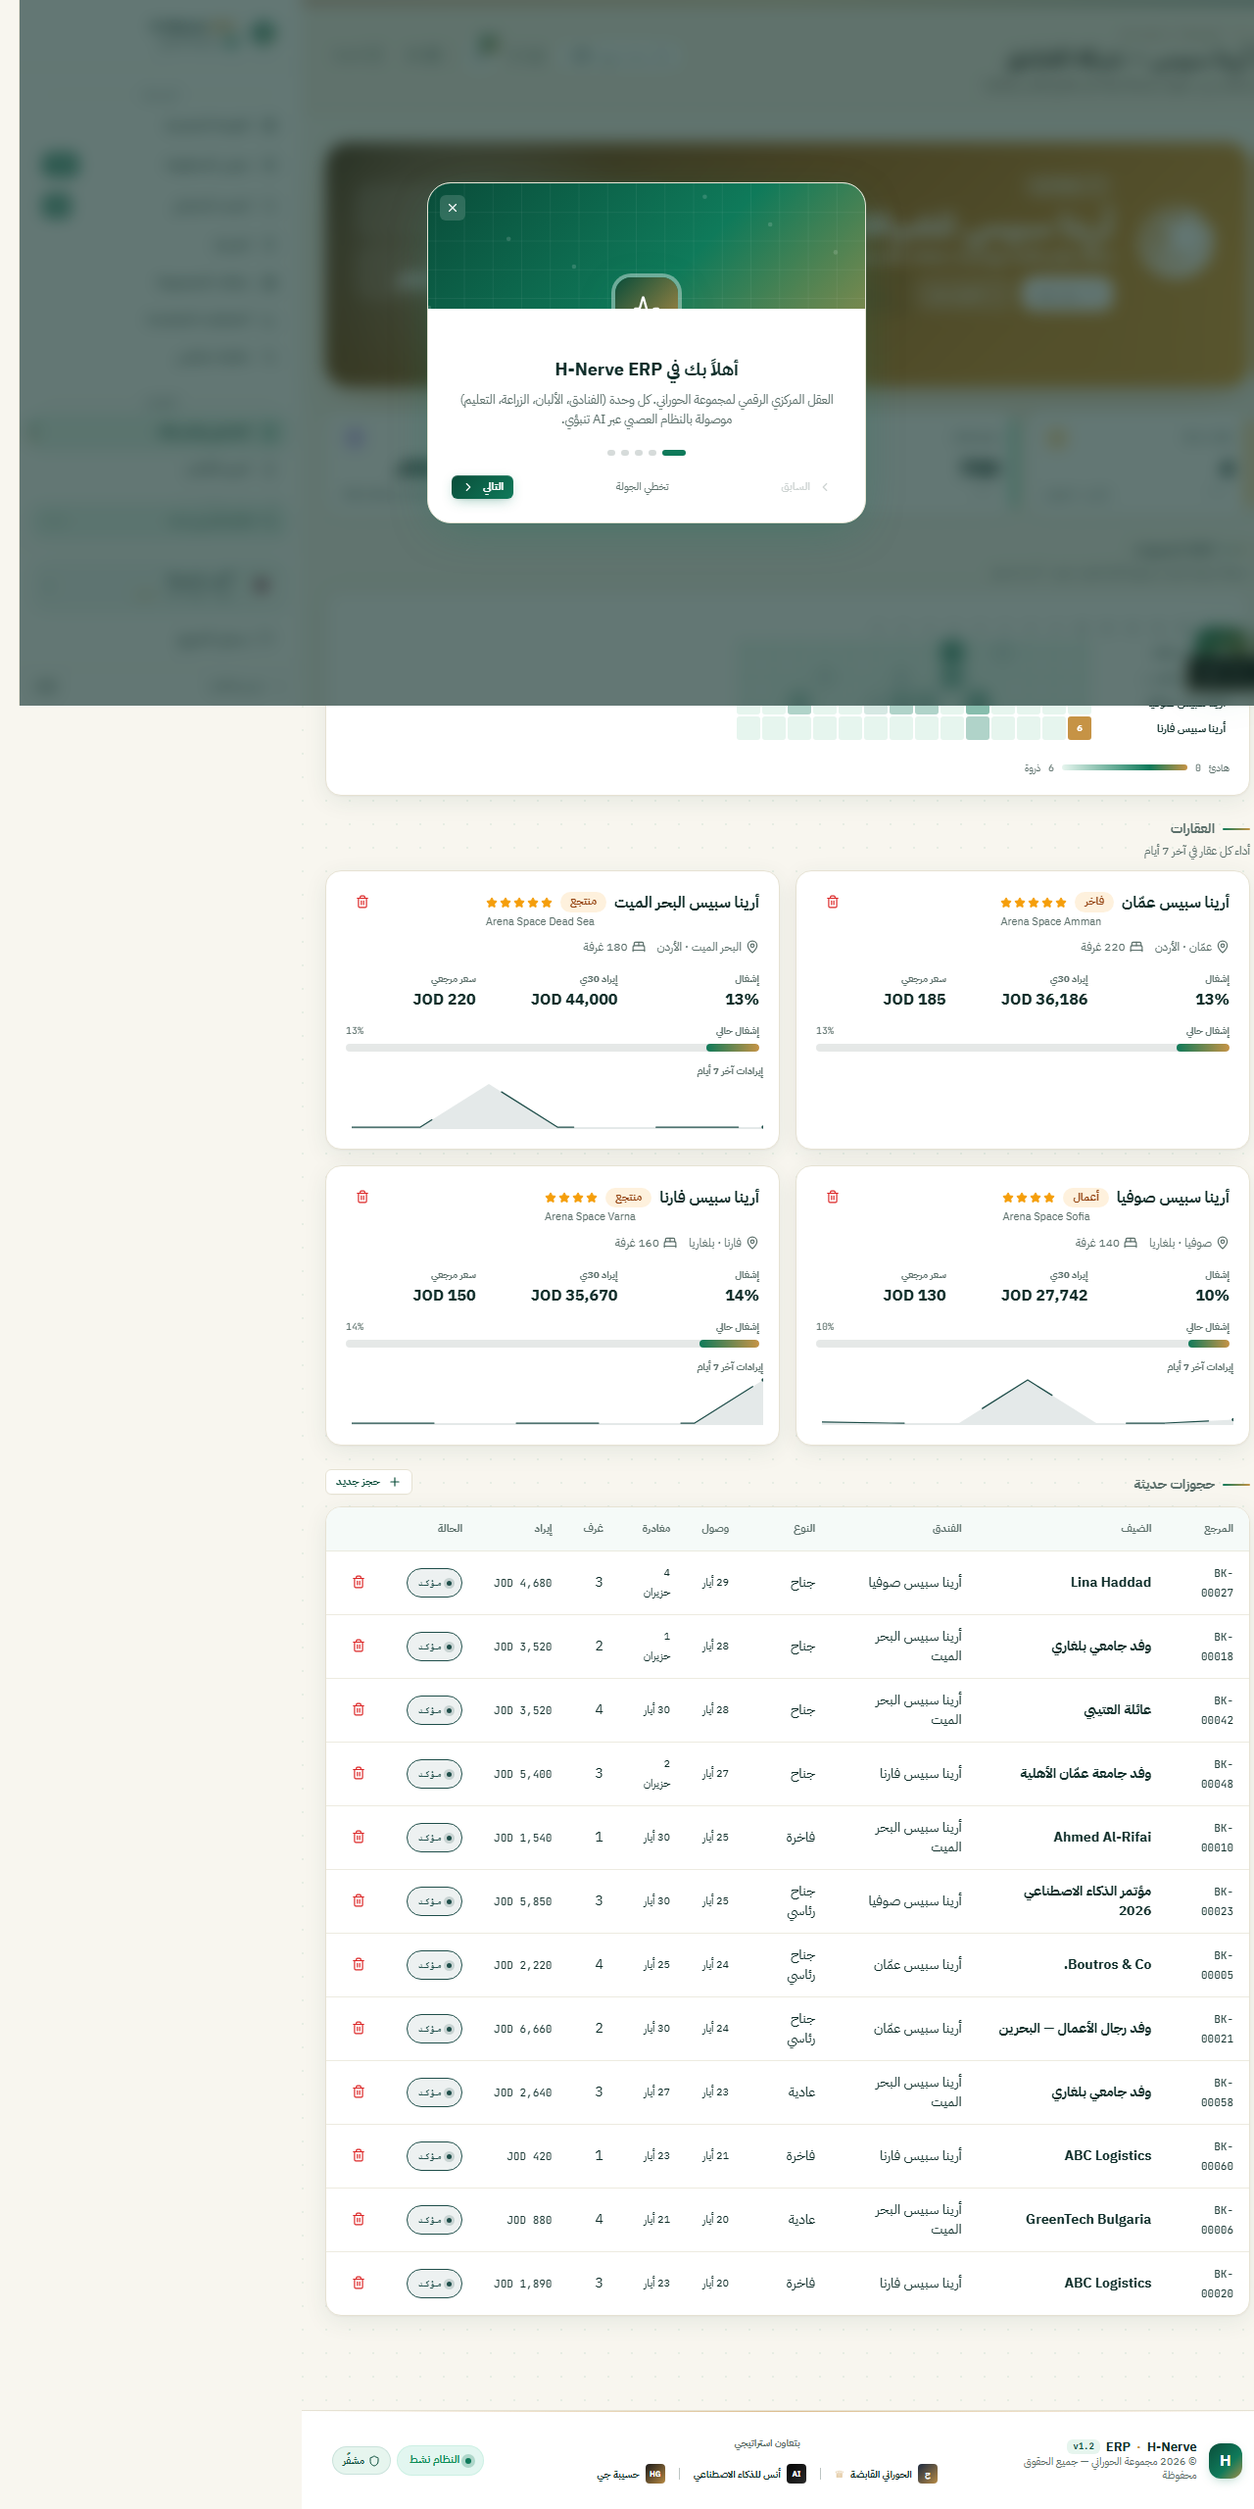
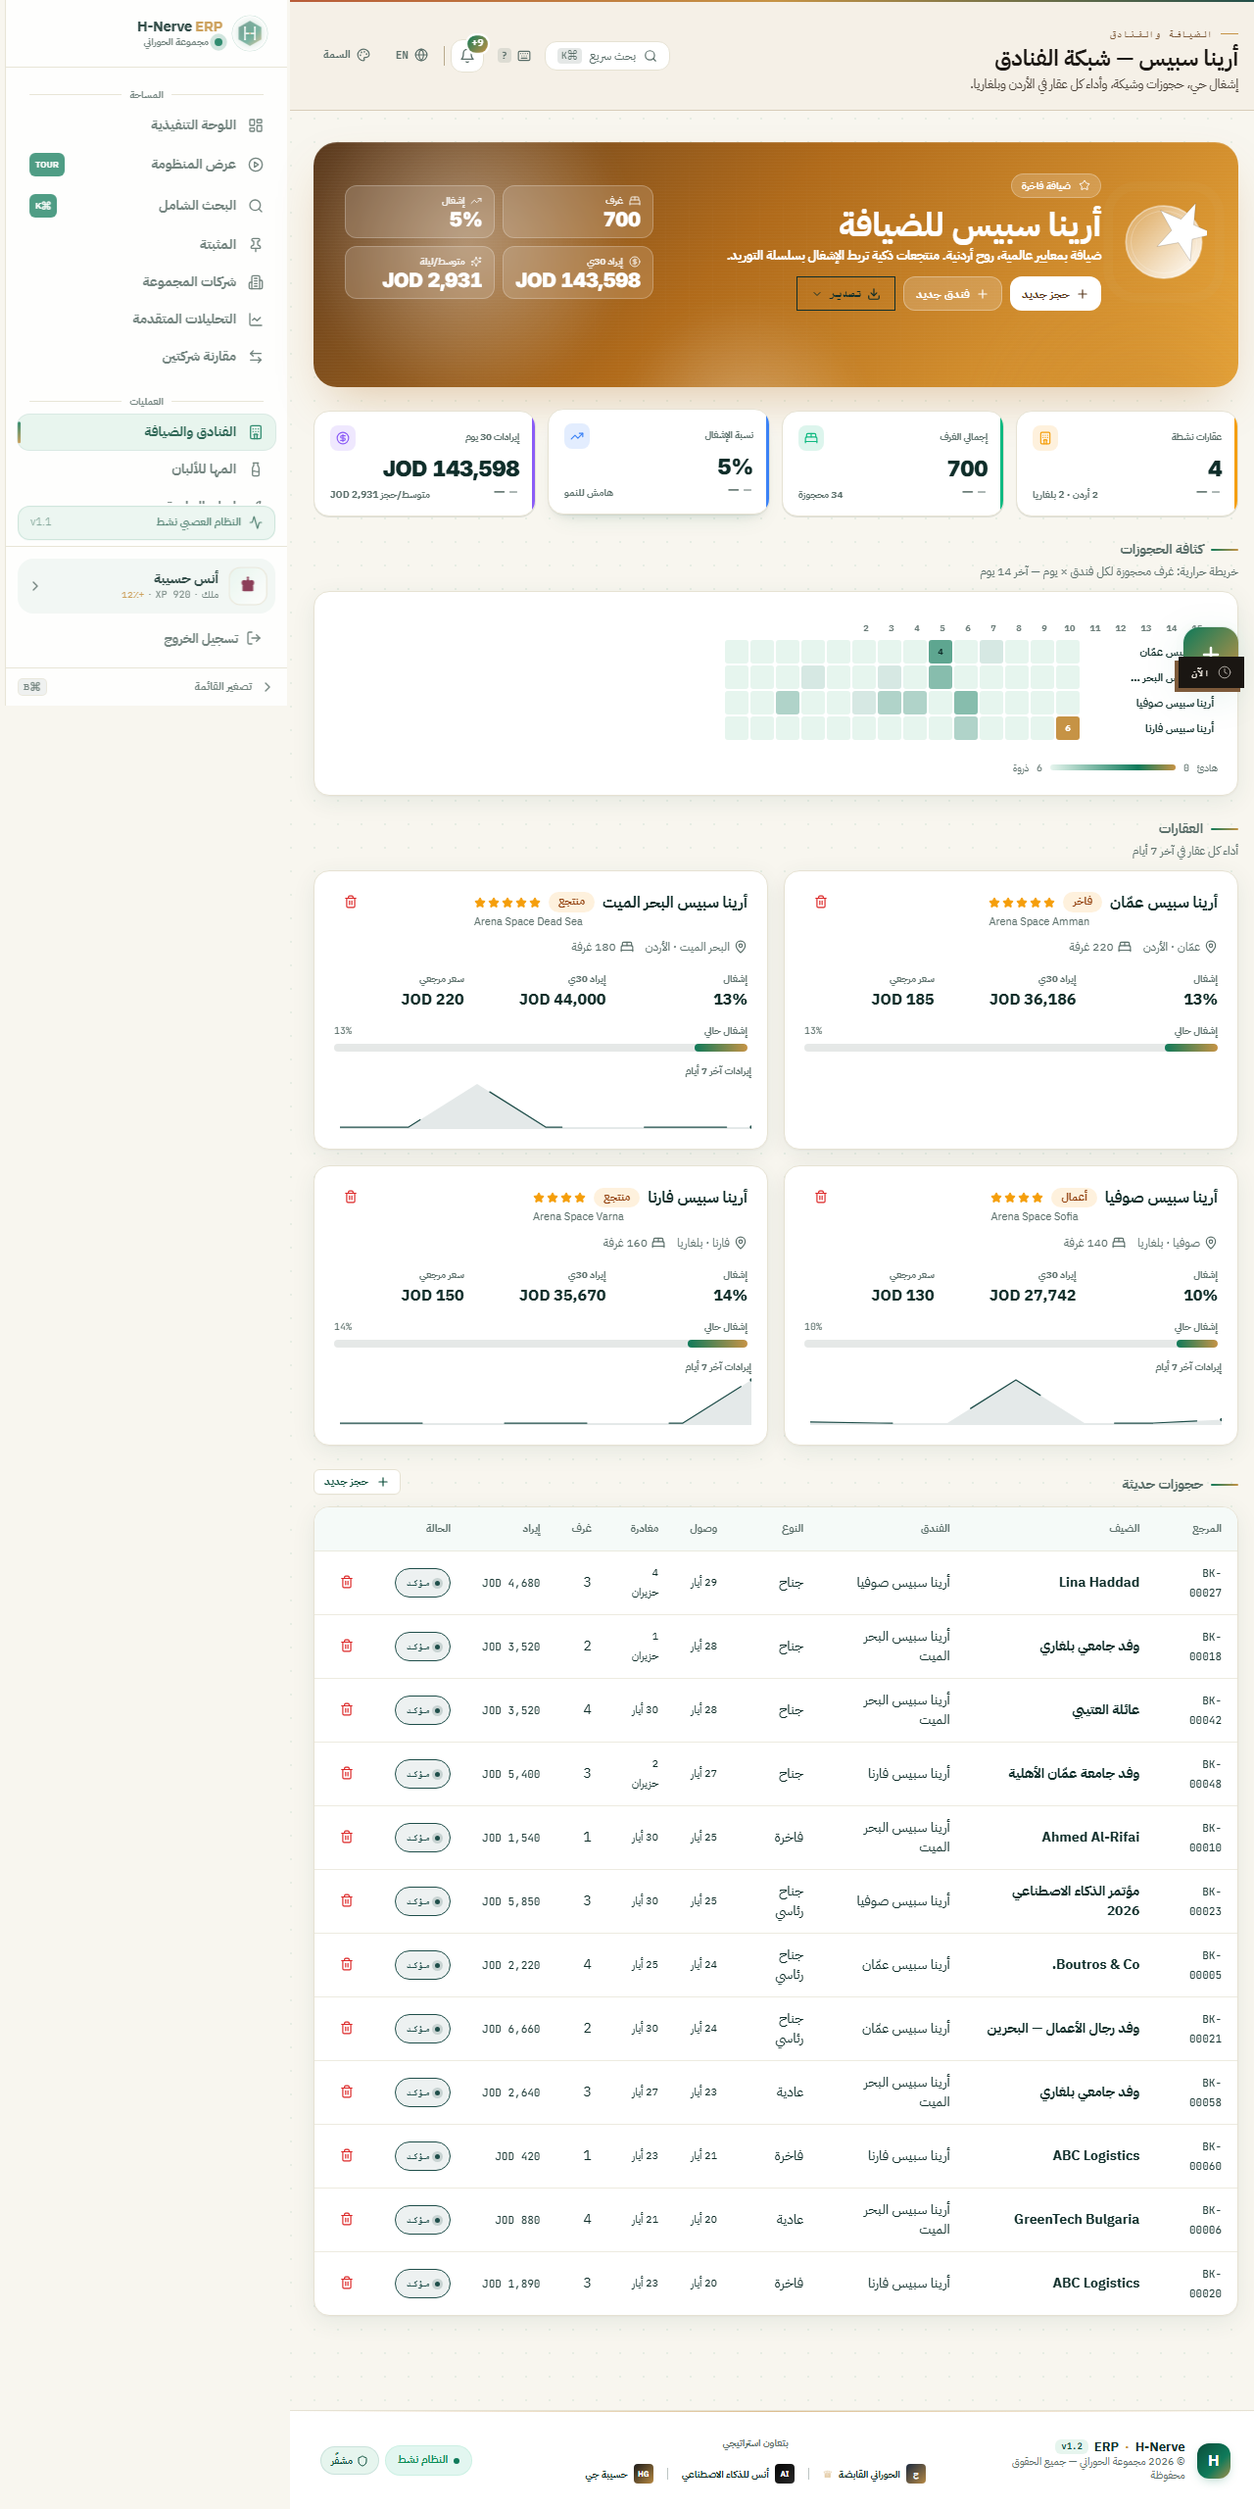
Add pitch-walkthrough report + screenshots (Terminal 2 deliverable)
docs/PITCH-WALKTHROUGH.md + 22 screenshots. Approved modal-free set.

diff --git a/docs/PITCH-WALKTHROUGH.md b/docs/PITCH-WALKTHROUGH.md
@@ -1,0 +1,145 @@
+# H-Nerve ERP — Pitch Rehearsal Walkthrough
+
+> Full-app dry run as an investor/leadership demo would see it.
+> **Run date:** 2026-05-15 · **Build:** Next.js 14.2.18, branch `main`, commit `f229049`
+> **Method:** gstack headless Chromium, logged in as `admin@hourani.jo`, every major screen visited at 1280px (mobile `/m` captured at 390×844 phone viewport).
+> **Screenshots:** [`./pitch-screenshots/`](./pitch-screenshots/) (one PNG per screen, numbered to match the table).
+
+This file is **read-only evidence**. It changes no app code. It is the only file added by this pass besides the screenshot PNGs.
+
+---
+
+## How to read this
+
+Each finding is tagged:
+
+- 🔴 **BLOCKER** — an investor will see this and it undercuts the pitch. Fix before demoing.
+- 🟡 **COSMETIC** — looks slightly unfinished; fix if time allows, won't sink the room.
+- ⚪ **EMPTY BY DESIGN** — correct behaviour, but seed data leaves it bare; pre-load or demo it live.
+- ✅ **CLEARED** — looked suspicious, verified fine.
+
+Every screen returned **HTTP 200** with a real Arabic `<h1>` and **no per-page console errors** (one transient dev-only RSC prefetch warning for `/showcase`, harmless). Nothing is *broken* in the crash sense. The issues below are about polish and pitch-credibility.
+
+---
+
+## TL;DR — the five things to fix before you pitch
+
+| # | Severity | Finding | Where it shows |
+|---|----------|---------|----------------|
+| 1 | 🔴 | **Two stacked welcome modals dim every screen on a fresh machine.** Tour (5 steps) → Welcome splash (4 slides) = 9 click-throughs, gated on `localStorage` only (per-device, not per-account). On the pitch laptop they *will* fire. | Every authenticated page |
+| 2 | 🔴 | **Seed data shows Arena Space Hospitality at "−100% revenue / JOD 0".** This zero propagates to the dashboard KPI, finance, insights, mobile, and Brain-IQ "Speed 0/100". Reads as a business in freefall. | Dashboard, Finance, Insights, `/m`, Brain IQ |
+| 3 | 🔴 | **Council says "مُفعّل بـ CLAUDE" but `ANTHROPIC_API_KEY` is unset → it runs deterministic stub templates.** The headline AI feature claims live Claude while it is templated. | `/brain/council`, all narrated brain output |
+| 4 | 🟡 | **Developer-personal branding in product chrome:** "أنس للذكاء الاصطناعي / Anas AI" + "حسيبة جي / Hasiba G" in the global footer and welcome splash slide 2. Reads as personal, not a Hourani product. | Global footer, Welcome splash |
+| 5 | 🟡 | **AI/seeded content is English in an Arabic-first UI.** Insight titles, council session names ("Revenue drop at…", "Should we ramp Maha cheese…"). | Insights, `/m`, `/brain/council` |
+
+---
+
+## Screen-by-screen checklist
+
+| # | Screen | Path | Screenshot | Verdict |
+|---|--------|------|-----------|---------|
+| 01 | Login | `/login` | [01-login.png](./pitch-screenshots/01-login.png) | ✅ Clean, professional |
+| 02 | Executive Dashboard | `/dashboard` | [02-dashboard.png](./pitch-screenshots/02-dashboard.png) | 🟡 Dense but good; one `JOD 0` KPI |
+| 03 | Companies | `/companies` | [03-companies.png](./pitch-screenshots/03-companies.png) | ✅ Strong, populated |
+| 04 | Hotels (vertical) | `/hotels` | [04-hotels.png](./pitch-screenshots/04-hotels.png) | ✅ Rich; gold hero, ratings, bookings table |
+| 05 | Dairy (vertical) | `/dairy` | [05-dairy.png](./pitch-screenshots/05-dairy.png) | ✅ Rich; blue hero, gauge, batch table |
+| 06 | Farms (vertical) | `/farms` | [06-farms.png](./pitch-screenshots/06-farms.png) | ✅ Rich; emerald hero, crop cards, weather |
+| 07 | Education (vertical) | `/education` | [07-education.png](./pitch-screenshots/07-education.png) | ✅ Good; purple hero, program cards |
+| 08 | Finance | `/finance` | [08-finance.png](./pitch-screenshots/08-finance.png) | 🟡 Long real ledger; recurring `JOD 0` KPI |
+| 09 | The Council | `/brain/council` | [09-brain-council.png](./pitch-screenshots/09-brain-council.png) | 🔴 "powered by CLAUDE" label vs stub mode |
+| 10 | Causal Graph | `/brain/graph` | [10-brain-graph.png](./pitch-screenshots/10-brain-graph.png) | 🟡 Renders, but visually dense/unlabelled |
+| 11 | Brain IQ | `/brain/iq` | [11-brain-iq.png](./pitch-screenshots/11-brain-iq.png) | 🟡 Polished; **Speed = 0/100** sub-score |
+| 12 | Memory Lake | `/brain/memory` | [12-brain-memory.png](./pitch-screenshots/12-brain-memory.png) | ✅ Full, editorial, looks intentional |
+| 13 | What-if Simulator | `/brain/scenarios` | [13-brain-scenarios.png](./pitch-screenshots/13-brain-scenarios.png) | ✅ Works; real propagation. Toast overlaps |
+| 14 | Supply Chain | `/supply-chain` | [14-supply-chain.png](./pitch-screenshots/14-supply-chain.png) | ✅ Strong; booking→production bridge |
+| 15 | Insights | `/insights` | [15-insights.png](./pitch-screenshots/15-insights.png) | 🟡 Very full; English content in AR UI |
+| 16 | Admin · Tenants | `/admin/tenants` | [16-admin-tenants.png](./pitch-screenshots/16-admin-tenants.png) | 🟡 Polished; 6/7 tenants show `PACKS 0` |
+| 17 | Admin · Empire | `/admin/empire` | [17-admin-empire.png](./pitch-screenshots/17-admin-empire.png) | 🟡 Strong; one empty grid cell (layout) |
+| 18 | Admin · System | `/admin/system` | [18-admin-system.png](./pitch-screenshots/18-admin-system.png) | 🟡 Thin — 4 stat cards on empty canvas |
+| 19 | Showcase / Tour | `/showcase` | [19-showcase.png](./pitch-screenshots/19-showcase.png) | ✅ Editorial 20-phase index; "تجريبي" benign |
+| 20 | Mobile "Today" | `/m` | [20-mobile.png](./pitch-screenshots/20-mobile.png) | 🟡 Clean at phone size; English insight text in AR UI |
+| 21 | Documents | `/documents` | [21-documents.png](./pitch-screenshots/21-documents.png) | ⚪ Empty by design; parser is a known stub |
+| 22 | Decision Theater (Phase 9) | `/theater/council/[id]` | [22-theater-council.png](./pitch-screenshots/22-theater-council.png) | ✅ Cinematic; works. English topic title |
+
+---
+
+## Detailed findings
+
+### 🔴 BLOCKER 1 — The double welcome-modal wall
+
+There are **two independent full-screen blocking overlays**, and the pitch laptop will hit both unless its browser `localStorage` already has the flags:
+
+1. `components/OnboardingTour.tsx` — 5-step tour, gated on `localStorage["h_nerve_onboarded_v1"]`.
+2. `components/WelcomeSplash.tsx` — 4-slide "Welcome to the upgraded H-Nerve", gated on `localStorage["h_nerve_welcome_v1.4_seen"]`. It only shows *after* the tour flag is set — so **dismissing the tour immediately triggers the splash**. Net: 9 dismissals.
+
+Why this is a real pitch risk, not a tester artifact:
+- Persistence is **`localStorage` only — per-device, per-browser, not tied to the user account.** A fresh laptop, a cleared cache, incognito, or a different machine = both modals fire again.
+- `OnboardingTour.close()` swallows storage failures with a silent `catch {}` (line 87-89). If storage is partitioned/blocked, it re-shows on *every* navigation forever. During this walkthrough it did exactly that — re-appeared on every page until both `localStorage` keys were set manually.
+- Every screenshot in the first three passes was dimmed by these modals. They sit at `z-[115]` / `z-[100]` with an 8px backdrop blur over the whole app.
+
+**Pre-pitch fix options (no code change needed for the demo itself):** on the actual pitch machine, before the demo, load the app once and click through both, OR run in the JS console: `localStorage.setItem('h_nerve_onboarded_v1','1'); localStorage.setItem('h_nerve_welcome_v1.4_seen','1')`. **Durable fix (post-pitch):** persist "seen" server-side on the user record instead of `localStorage`.
+
+### 🔴 BLOCKER 2 — Arena Space Hospitality reads as "−100% revenue / JOD 0"
+
+The seed data gives Arena Space Hospitality **zero revenue in the recent 14-day window** (`JOD 0` vs `JOD 127,335` prior). Consequences visible to an investor:
+- Dashboard: a KPI card literally shows **`JOD 0`** (02-dashboard).
+- Finance: same `JOD 0` in the unified-ledger hero (08-finance).
+- Insights & Mobile: a red alert **"Revenue drop at Arena Space Hospitality by 100%"** (15-insights, 20-mobile).
+- Brain IQ: **"Speed 0/100"** sub-score (11-brain-iq) — a zero on the flagship intelligence screen.
+
+Individually each is "just seed data," but together they paint the flagship hospitality unit as collapsed. **Fix:** reseed Arena Space with non-zero recent revenue so the demo narrative is "healthy group, AI catching subtle signals" rather than "everything is down 100%." (Seeding is owned by another terminal — flagging, not touching.)
+
+### 🔴 BLOCKER 3 — "Powered by CLAUDE" while running stub templates
+
+- `/brain/council` shows **"حالة المعركة: مُفعّل بـ CLAUDE"** ("powered by CLAUDE").
+- `ANTHROPIC_API_KEY` is **declared in `.env` but empty** — verified unset in the running dev server (`set: false, len: 0`).
+- `lib/brain/narrator.claude.ts:6`: *"Stub mode (no ANTHROPIC_API_KEY) returns a topic-aware editorial template."* `lib/brain/llm.ts:35` reads the key and falls back to templates when absent.
+- `lib/brain/Brain.ts` itself: `makeBrain()` returns all-stub proxies and `Brain.ask()` throws `"not yet wired"`. The brain *pages* work because they call the `*.live.ts` subsystems directly (council.live, simulator.bfs, memory.live) — those produce **real deterministic output**, not LLM output.
+
+So the brain is genuinely functional as a deterministic engine, but the **"powered by CLAUDE" label is not true in this build**. If a technical evaluator asks "is this live AI?", the honest answer is "deterministic engine now, Claude-ready when the key is set." Either set a key for the demo, or change the label to something honest ("Council engine: ready") so the claim survives scrutiny. Matches the known readiness posture (prototype, AI stub-mode by default).
+
+### 🟡 COSMETIC
+
+- **Developer-personal branding in chrome.** Global footer chips and Welcome-splash slide 2 carry "أنس للذكاء الاصطناعي / Anas AI" and "حسيبة جي / Hasiba G". For a Hourani-leadership pitch this reads personal/unfinished. Consider neutral phrasing ("بتعاون استراتيجي" alone) for the demo build.
+- **English content inside the Arabic-first UI.** AI-generated/seeded strings are English: insight titles, council session names, mobile "today" cards ("Revenue drop at…", "dairy batches near expiry"). The chrome is fully Arabic, so the mix is jarring. Arabic-first is a stated product principle; the generated layer doesn't honour it yet.
+- **Brain IQ "Speed 0/100"** (11-brain-iq) and the recurring **`JOD 0`** KPI (02, 08) — both downstream of Blocker 2's seed gap; listed separately because even after reseeding revenue, confirm the Speed metric has a non-zero source.
+- **`/admin/system` is thin** (18) — four stat numbers (Memories 8, IQ Snapshots 8, Patterns 7, Tenants 7) on a large empty dark canvas. Looks unfinished for a "System overview" console. (Admin is owned by another terminal — flagging only.)
+- **`/admin/empire` empty grid cell** (17) — 8 real tiles confirmed in the DOM, but a 3-column grid leaves one visibly blank cell that reads as a broken tile. A 4-col or 2×4 layout would close the gap. Cosmetic, not data loss.
+- **`/admin/tenants`**: 6 of 7 tenants show `PACKS 0` (16) — looks like incomplete provisioning in a demo of multi-tenancy.
+- **Causal graph** (10) is a dense dot-cloud on dark canvas with no visible labels at default zoom — hard to narrate in a pitch without interaction.
+- **Realtime presence toasts** ("أحمد القاسم: اعتمد الخطة…") auto-pop and overlap content on `/brain/council` and `/brain/scenarios`. Simulated collaboration is a nice touch, but during a live demo they cover the UI mid-sentence.
+
+### ⚪ EMPTY BY DESIGN
+
+- **`/documents`** (21) — all counters `0`, clean empty state ("لا مستندات بعد. أفلِت أوّل ملف…"). The parser is a known stub (target: Claude Vision). For the pitch, either pre-seed one sample document or demo a live drag-and-drop so the module isn't all zeros.
+
+### ✅ CLEARED
+
+- **`/showcase` "تجريبي"** — flagged by the stub-text scan; in context it is poetic copy: *"حركة الرمز تتعقّب التشغيل التجريبي عبر الأسلاك."* Not a stub/demo-mode banner. Page is a polished editorial index of all 20 phases.
+- **All HTTP/console/network** — every screen 200, no real console errors, no failed network requests (fonts load from Google Fonts fine). The only console error all session was one transient dev-mode `Failed to fetch RSC payload for /showcase` (Next.js prefetch race during recompile) — does not occur in production builds.
+- **Per-vertical hero colours** (gold hotels / blue dairy / emerald farms / purple education / purple supply-chain) — consistent within each surface, reads as intentional vertical theming, not a Heritage-Modern violation.
+
+---
+
+## Strengths worth leaning into during the pitch
+
+- Companies, the four verticals, Finance, Supply Chain, Memory Lake and the What-if Simulator are **genuinely rich and populated** — real tables, charts, propagation maths, editorial prose. This does not look like a thin prototype.
+- The What-if simulator (`/brain/scenarios`) actually computes ripple effects across entities with staff/exposure numbers — strong live-demo moment.
+- **The Decision Theater (`/theater/council/[id]`, Phase 9) is the most cinematic moment in the app** — a fullscreen 5-slide editorial magazine spread with large Arabic display type, a KPI strip, and ESC to return. No app chrome, no modals. Open it from a `/brain/council` past session and let it carry the close of the pitch. (Only caveat: the topic title renders in English — same i18n gap as Cosmetic above.)
+- Heritage Modern operator UI vs Sleek Operator admin vs editorial brain surfaces are visually distinct and well-executed — the "one vocabulary per surface" discipline holds.
+
+---
+
+## Environment notes (for reproducing this run)
+
+- The machine's **C: drive was 100% full (0 bytes)** at start — blocked the tooling build and would have broken `next dev`. Reclaimed ~15 GB (npm cache + %TEMP% + Recycle Bin, all user-approved) before proceeding. Worth knowing: a full disk on the pitch machine = no demo.
+- gstack browse needed a one-time build; `bun` was installed via npm (`npm i -g bun`, v1.3.14) since the machine had none.
+- DB (`prisma/dev.db`) was already seeded; not touched. No edits to `.env`, `app/(admin)/**`, `prisma/**`, or `.claude/**` — per instruction, this pass is read-only except this doc and the screenshot PNGs.
+
+## Suggested order of fixes (cheapest first)
+
+1. Pre-set the two `localStorage` flags on the pitch laptop (2 minutes, zero code).
+2. Reseed Arena Space Hospitality recent revenue ≠ 0 (owned by other terminal — request it).
+3. Decide the Council label: set `ANTHROPIC_API_KEY` for a live demo, or relabel to drop the "CLAUDE" claim.
+4. Swap "Anas AI / Hasiba G" footer/splash branding for neutral text in the demo build.
+5. Post-pitch: persist onboarding "seen" server-side; localize the generated insight/council text to Arabic.
